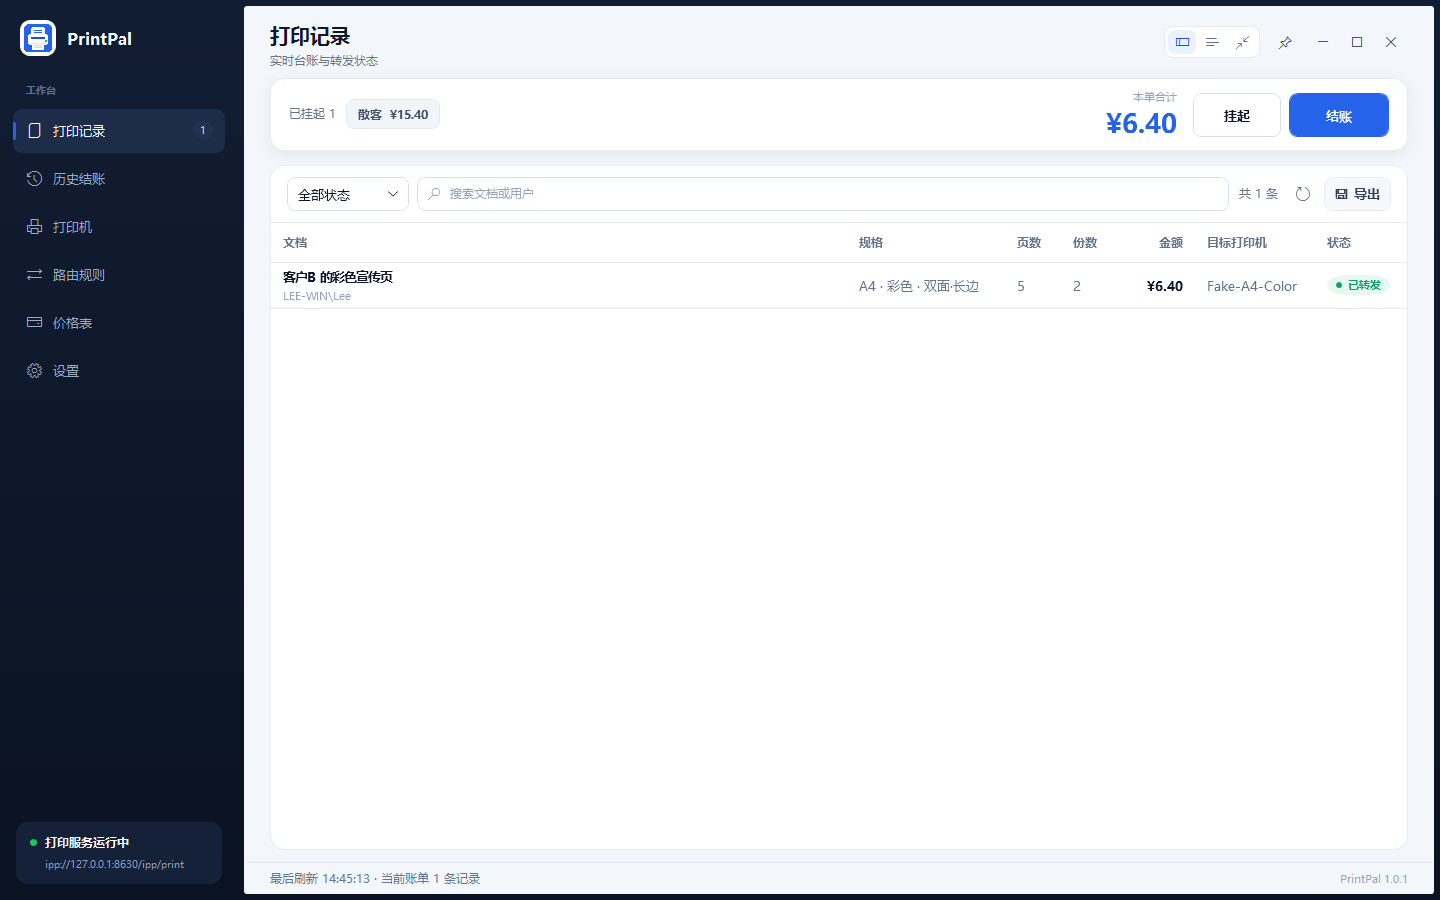
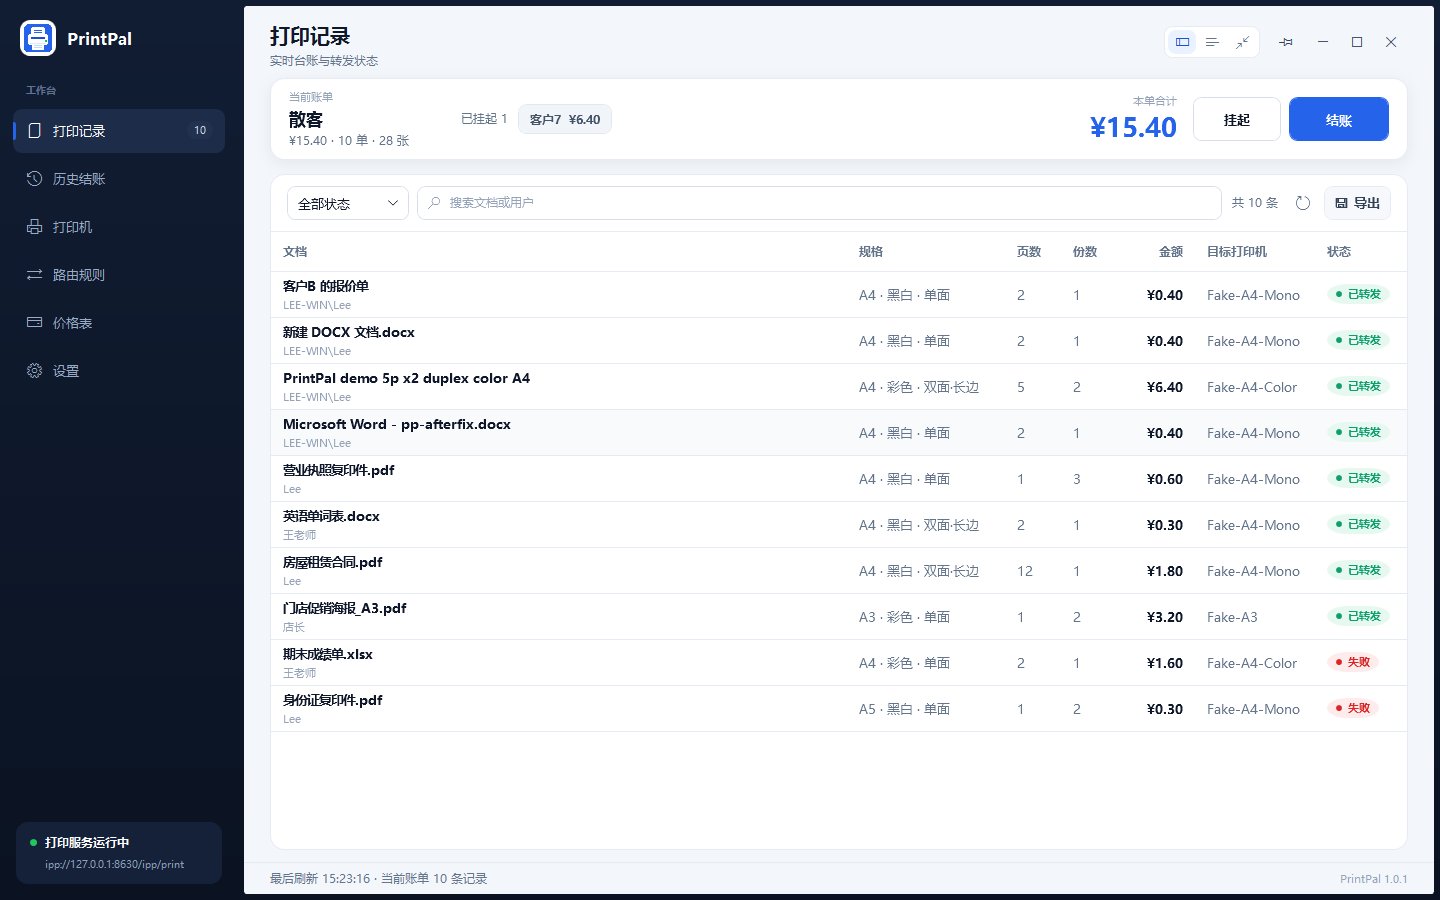
fix(ui): 恢复当前账单名称、挂起 chip 移入账单卡、金额列对齐与列宽调整
- 完整模式恢复「当前账单 + 名称 + 金额/单数/张数」（双击改名入口），只保留去掉标题栏刷新按钮
- 简洁模式：标题栏只留品牌与窗口按钮（可拖动），挂起 chip 移到账单卡第二行，避开 Caption 吞点击
- 去掉简洁模式的「本次 N 单 · M 张」小字
- 金额列表头右对齐；固定列 MinWidth 下调到约 70%，支持拖窄
- 文档与截图同步

diff --git a/src/PrintPal.App/MainWindow.xaml b/src/PrintPal.App/MainWindow.xaml
@@ -1301,7 +1301,7 @@
                 <RowDefinition Height="*" />
             </Grid.RowDefinitions>
 
-            <Border Grid.Row="0" Background="White" BorderBrush="{StaticResource LineBrush}" BorderThickness="0,0,0,1" MouseLeftButtonDown="Header_MouseLeftButtonDown">
+            <Border Grid.Row="0" Background="White" BorderBrush="{StaticResource LineBrush}" BorderThickness="0,0,0,1">
                 <Grid Margin="18,0,16,0">
                     <Grid.ColumnDefinitions>
                         <ColumnDefinition Width="Auto" />
@@ -1315,27 +1315,6 @@
                         </Border>
                         <TextBlock Text="PrintPal" FontSize="15" FontWeight="Bold" Foreground="{StaticResource InkBrush}" VerticalAlignment="Center" Margin="9,0,12,0" />
                     </StackPanel>
-
-                    <Grid Grid.Column="1" Margin="4,0,12,0" VerticalAlignment="Center">
-                        <Grid.ColumnDefinitions>
-                            <ColumnDefinition Width="Auto" />
-                            <ColumnDefinition Width="*" />
-                        </Grid.ColumnDefinitions>
-                        <TextBlock x:Name="SimpleParkedCaptionText"
-                                   Grid.Column="0"
-                                   Text="暂无挂起账单"
-                                   Style="{StaticResource MutedText}"
-                                   VerticalAlignment="Center"
-                                   Margin="0,0,8,0" />
-                        <ScrollViewer Grid.Column="1"
-                                      HorizontalScrollBarVisibility="Auto"
-                                      VerticalScrollBarVisibility="Disabled"
-                                      VerticalAlignment="Center">
-                            <ItemsControl x:Name="SimpleParkedBills"
-                                          ItemTemplate="{StaticResource ParkedBillChipTemplate}"
-                                          ItemsPanel="{StaticResource HorizontalChipPanel}" />
-                        </ScrollViewer>
-                    </Grid>
 
                     <StackPanel Grid.Column="2" Orientation="Horizontal" VerticalAlignment="Center">
                         <Border Background="{StaticResource CardBrush}"
@@ -1403,40 +1382,67 @@
                 </Grid>
             </Border>
 
-            <Border Grid.Row="1" Style="{StaticResource CardBorder}" Margin="16,14,16,0" Padding="20,14">
+            <Border Grid.Row="1" Style="{StaticResource CardBorder}" Margin="16,14,16,0" Padding="20,12">
                 <Grid>
-                    <Grid.ColumnDefinitions>
-                        <ColumnDefinition Width="*" />
-                        <ColumnDefinition Width="Auto" />
-                    </Grid.ColumnDefinitions>
-                    <StackPanel VerticalAlignment="Center">
-                        <TextBlock x:Name="SimpleCurrentTagText"
-                                   Text="当前账单：客户1"
-                                   FontSize="17"
-                                   FontWeight="SemiBold"
-                                   Foreground="{StaticResource InkBrush}"
-                                   Cursor="Hand"
-                                   ToolTip="双击改名"
-                                   MouseLeftButtonDown="BillName_MouseLeftButtonDown" />
-                    </StackPanel>
-                    <StackPanel Grid.Column="1" Orientation="Horizontal" VerticalAlignment="Center">
-                        <TextBlock x:Name="SimpleAmountText"
-                                   Text="¥0.00"
-                                   FontSize="30"
-                                   FontWeight="Bold"
-                                   Foreground="{StaticResource AccentBrush}"
+                    <Grid.RowDefinitions>
+                        <RowDefinition Height="Auto" />
+                        <RowDefinition Height="Auto" />
+                    </Grid.RowDefinitions>
+                    <Grid Grid.Row="0">
+                        <Grid.ColumnDefinitions>
+                            <ColumnDefinition Width="*" />
+                            <ColumnDefinition Width="Auto" />
+                        </Grid.ColumnDefinitions>
+                        <StackPanel VerticalAlignment="Center">
+                            <TextBlock x:Name="SimpleCurrentTagText"
+                                       Text="当前账单：客户1"
+                                       FontSize="17"
+                                       FontWeight="SemiBold"
+                                       Foreground="{StaticResource InkBrush}"
+                                       Cursor="Hand"
+                                       ToolTip="双击改名"
+                                       MouseLeftButtonDown="BillName_MouseLeftButtonDown" />
+                        </StackPanel>
+                        <StackPanel Grid.Column="1" Orientation="Horizontal" VerticalAlignment="Center">
+                            <TextBlock x:Name="SimpleAmountText"
+                                       Text="¥0.00"
+                                       FontSize="30"
+                                       FontWeight="Bold"
+                                       Foreground="{StaticResource AccentBrush}"
+                                       VerticalAlignment="Center"
+                                       Margin="0,0,16,0" />
+                            <Button x:Name="SimpleParkButton"
+                                    Content="挂起"
+                                    Height="42"
+                                    Width="88"
+                                    Margin="0,0,8,0"
+                                    ToolTip="把当前账单挂起，并给下一位客户开一张新账单"
+                                    Click="ParkBill_Click" />
+                            <Button x:Name="SimpleCheckoutButton"
+                                    Content="结账" Style="{StaticResource PrimaryButton}" Height="42" Width="96" Margin="0" Click="Checkout_Click" />
+                        </StackPanel>
+                    </Grid>
+
+                    <Grid x:Name="SimpleParkedPanel" Grid.Row="1" Margin="0,10,0,0" Visibility="Collapsed">
+                        <Grid.ColumnDefinitions>
+                            <ColumnDefinition Width="Auto" />
+                            <ColumnDefinition Width="*" />
+                        </Grid.ColumnDefinitions>
+                        <TextBlock x:Name="SimpleParkedCaptionText"
+                                   Grid.Column="0"
+                                   Text="已挂起 0"
+                                   Style="{StaticResource MutedText}"
                                    VerticalAlignment="Center"
-                                   Margin="0,0,16,0" />
-                        <Button x:Name="SimpleParkButton"
-                                Content="挂起"
-                                Height="42"
-                                Width="88"
-                                Margin="0,0,8,0"
-                                ToolTip="把当前账单挂起，并给下一位客户开一张新账单"
-                                Click="ParkBill_Click" />
-                        <Button x:Name="SimpleCheckoutButton"
-                                Content="结账" Style="{StaticResource PrimaryButton}" Height="42" Width="96" Margin="0" Click="Checkout_Click" />
-                    </StackPanel>
+                                   Margin="0,0,10,0" />
+                        <ScrollViewer Grid.Column="1"
+                                      HorizontalScrollBarVisibility="Auto"
+                                      VerticalScrollBarVisibility="Disabled"
+                                      VerticalAlignment="Center">
+                            <ItemsControl x:Name="SimpleParkedBills"
+                                          ItemTemplate="{StaticResource ParkedBillChipTemplate}"
+                                          ItemsPanel="{StaticResource HorizontalChipPanel}" />
+                        </ScrollViewer>
+                    </Grid>
                 </Grid>
             </Border>
 

diff --git a/src/PrintPal.App/Themes/Theme.xaml b/src/PrintPal.App/Themes/Theme.xaml
@@ -720,7 +720,6 @@
         <Setter Property="Foreground" Value="#475569" />
         <Setter Property="BorderBrush" Value="#E2E8F0" />
         <Setter Property="ToolTipService.ShowDuration" Value="10000" />
-        <Setter Property="WindowChrome.IsHitTestVisibleInChrome" Value="True" />
     </Style>
 
     <Style x:Key="SmallParkedBillChipStyle" TargetType="Button" BasedOn="{StaticResource ParkedBillChipStyle}">

diff --git a/src/PrintPal.App/MainWindow.xaml.cs b/src/PrintPal.App/MainWindow.xaml.cs
@@ -421,7 +421,8 @@ public partial class MainWindow : Window
         MinimalAmountText.Text = amountText;
 
         FullParkedCaptionText.Text = parked == 0 ? "暂无挂起账单" : $"已挂起 {parked}";
-        SimpleParkedCaptionText.Text = parked == 0 ? "暂无挂起账单" : $"已挂起 {parked}";
+        SimpleParkedCaptionText.Text = $"已挂起 {parked}";
+        SimpleParkedPanel.Visibility = parked == 0 ? Visibility.Collapsed : Visibility.Visible;
         MinimalParkedPanel.Visibility = parked == 0 ? Visibility.Collapsed : Visibility.Visible;
         MinimalParkedCaptionText.Text = $"挂起 {parked}";
 

diff --git a/docs/CHANGELOG.md b/docs/CHANGELOG.md
@@ -4,6 +4,17 @@
 
 ---
 
+## 2026-10-30 — 账单 UI 细节修复（二）
+
+- 恢复完整模式收银条的「当前账单 + 名称 + 金额·单数·张数」：名称是双击改名的唯一入口，不能删；
+  只去掉标题栏重复的刷新按钮。
+- 简洁模式改为：标题栏只留品牌与窗口按钮（空白处可拖动窗口），挂起账单 chip 移到下方账单卡，
+  彻底避开「标题栏 Caption 吞点击」的问题——chip 现在在普通客户区，点击可正常取回账单。
+- 简洁模式去掉「本次 N 单 · M 张」小字（与金额重复）。
+- 「金额」列表头右对齐，与金额数值对齐（完整/简洁/历史列表/历史明细）。
+- 列宽可拖动调整：所有固定宽度列的最小宽度从「等于宽度」下调到约 70%，之前只能拖宽、拖窄无效。
+
+---
 ## 2026-10-30 — 账单 UI 细节修复
 
 - 完整模式：去掉标题栏重复的刷新按钮与收银条左侧的「当前账单 + 名称 + 金额·单数·张数」，

diff --git a/docs/ui.md b/docs/ui.md
@@ -136,8 +136,9 @@ powershell.exe -NoProfile -ExecutionPolicy Bypass -File .\scripts\Install-PrintP
 
 ![简洁模式](images/ui-simple.png)
 
-- 顶部：品牌、挂起账单 chip 条（点击取回）、完整/简洁/极简图标按钮组、置顶、窗口按钮。
-- 金额条：当前账单名（双击改名）、本次单数/张数、金额、挂起、结账。
+- 顶部：品牌 + 完整/简洁/极简图标按钮组、置顶、窗口按钮；标题栏空白处可拖动窗口。
+- 账单卡：`当前账单：客户N`（双击改名）、金额、`挂起`、`结账`；下面一行是 `已挂起 N` + chip 条
+  （点击取回，无挂起时整行隐藏）。chip 放在卡片里而不是标题栏，保证点击不会被窗口拖动区吞掉。
 - 列表：文档、规格、页数、份数、金额、状态。
 - 适合前台快速查看；不显示配置页和任务详情操作。
 
